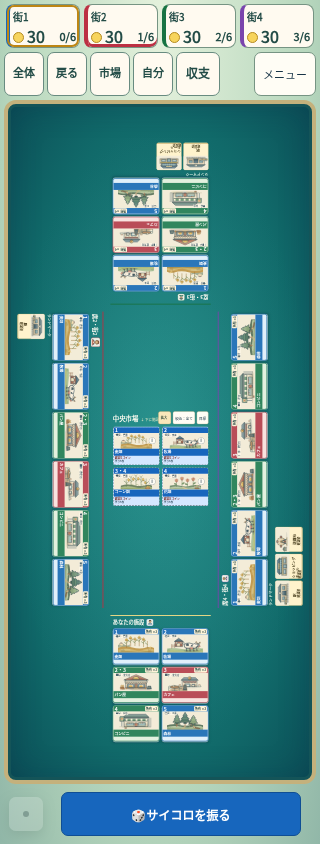
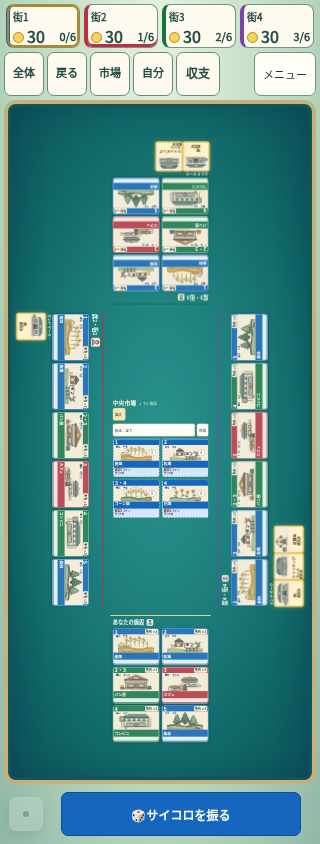
fix: 狭い中央市場の見出しと操作の重なりを解消

diff --git a/style.css b/style.css
@@ -14060,6 +14060,54 @@ html[data-design="cardboard"] #cardboardBoard.cardboard-card-table #cardboardSea
     -webkit-mask-image: none;
 }
 
+/* A two-card-wide market gives its title/actions and filters separate rows. */
+html[data-design="cardboard"] #cardboardBoard.cardboard-card-table #cardboardSeats #cardboardCenter[data-market-columns="2"] #cardboardMarket .compact-market {
+    grid-template-columns: minmax(0, 1fr) auto;
+    grid-template-rows: auto auto minmax(0, 1fr) auto;
+}
+html[data-design="cardboard"] #cardboardBoard.cardboard-card-table #cardboardSeats #cardboardCenter[data-market-columns="2"] #cardboardMarket .compact-market-header {
+    grid-column: 1 / -1;
+    grid-row: 1;
+    min-width: 0;
+    min-height: 44px;
+    height: auto;
+    flex-wrap: wrap;
+    gap: 4px 8px;
+}
+html[data-design="cardboard"] #cardboardBoard.cardboard-card-table #cardboardSeats #cardboardCenter[data-market-columns="2"] #cardboardMarket .compact-market-header h2 {
+    flex: 1 1 100%;
+    margin: 0;
+    min-width: 0;
+    white-space: normal;
+    font-size: 20px;
+    line-height: 1.3;
+}
+html[data-design="cardboard"] #cardboardBoard.cardboard-card-table #cardboardSeats #cardboardCenter[data-market-columns="2"] #cardboardMarket .compact-market-header button {
+    flex: 0 0 auto;
+    max-width: 100%;
+}
+html[data-design="cardboard"] #cardboardBoard.cardboard-card-table #cardboardSeats #cardboardCenter[data-market-columns="2"] #cardboardMarket .compact-market-filter-disclosure {
+    grid-column: 1;
+    grid-row: 2;
+}
+html[data-design="cardboard"] #cardboardBoard.cardboard-card-table #cardboardSeats #cardboardCenter[data-market-columns="2"] #cardboardMarket .compact-market-goal-disclosure {
+    grid-column: 2;
+    grid-row: 2;
+}
+html[data-design="cardboard"] #cardboardBoard.cardboard-card-table #cardboardSeats #cardboardCenter[data-market-columns="2"] #cardboardMarket .compact-market-facilities {
+    grid-column: 1 / -1;
+    grid-row: 3;
+}
+html[data-design="cardboard"] #cardboardBoard.cardboard-card-table #cardboardSeats #cardboardCenter[data-market-columns="2"] #cardboardMarket .market-rule-status {
+    grid-column: 1 / -1;
+    grid-row: 4;
+    position: static;
+    width: auto;
+    max-width: 100%;
+    margin: 0;
+    overflow-wrap: anywhere;
+}
+
 html[data-design="cardboard"] #cardboardBoard.cardboard-card-table #cardboardSeats #cardboardMarket .compact-market-item {
     flex: none;
     width: 160px;

diff --git a/tests/browser/cardboard-overview.spec.js b/tests/browser/cardboard-overview.spec.js
@@ -72,6 +72,26 @@ async function expectWholeTable(page, count) {
                 if (width > tolerance && height > tolerance) failures.push(`${groups[first].name} overlaps ${groups[second].name}`);
             }
         }
+        const market = viewport.querySelector('#cardboardMarket');
+        const controls = [...market.querySelectorAll('.compact-market-header h2, .compact-market-header button, .compact-market-filter-disclosure > summary, .compact-market-goal-disclosure > summary')]
+            .map(node => ({ node, bounds: node.getBoundingClientRect() }));
+        for (let first = 0; first < controls.length; first++) {
+            for (let second = first + 1; second < controls.length; second++) {
+                const a = controls[first].bounds;
+                const b = controls[second].bounds;
+                if (Math.min(a.right, b.right) - Math.max(a.left, b.left) > 1 &&
+                    Math.min(a.bottom, b.bottom) - Math.max(a.top, b.top) > 1) failures.push('market heading/control overlap');
+            }
+        }
+        const title = market.querySelector('.compact-market-header h2');
+        const titleRange = document.createRange();
+        titleRange.selectNodeContents(title);
+        const titleText = titleRange.getBoundingClientRect();
+        for (const control of controls.filter(control => control.node !== title)) {
+            const b = control.bounds;
+            if (Math.min(titleText.right, b.right) - Math.max(titleText.left, b.left) > 1 &&
+                Math.min(titleText.bottom, b.bottom) - Math.max(titleText.top, b.top) > 1) failures.push('market title text overlaps control');
+        }
         return failures.slice(0, 8);
     })).toEqual([]);
 }

diff --git a/js/cardTableLayout.js b/js/cardTableLayout.js
@@ -57,6 +57,7 @@ const CardTableLayout = (() => {
             // A tall screen needs a narrower centre, otherwise its width
             // determines the fit scale and leaves most of the height unused.
             const columns = wide ? 6 : 2;
+            if (market.dataset.marketColumns !== String(columns)) market.dataset.marketColumns = String(columns);
             setStyle(market, '--table-market-columns', String(columns));
             setStyle(market, '--table-market-rows', oppositeOnly && shallow ? '1' : '2');
             setStyle(market, 'width', `${columns * 160 + (columns - 1) * 8 + 16}px`);

diff --git a/docs/ORIENTED-CARD-TABLE-PROGRESS.md b/docs/ORIENTED-CARD-TABLE-PROGRESS.md
@@ -95,3 +95,11 @@ fe6fd66bのRelease CI39017454898全7job成功。4人CPUの自然進行mid19/late
 - 18種類の2人横持ちは従来の最小幅検査24pxを44px以上へ強化。実CPU起動の通知がdockへ収まり、所有者HUDを覆わず、全カードも画面に収まる検査1/1成功（19.7秒）。カード幅の検査値を実測の旧値と混同しない。
 - 一度CPUを強制割当てしてschedulerをcancelしたfixtureはwatchdogが正しく自動復旧し、CPU文言のassertに失敗した。製品障害ではなくfixtureが正規CPUフローを壊したためと判断。新しいCPU2人戦を通常startGameNowで開始するfixtureへ修正、watchdogを無効化せず成功した。
 - 2人配置+撮影時HUD検査付き6操作部分UI smokeは2/2成功（51.3秒）。編集JS構文とdiff checkも成功。新しい2画像はcard-table-2-grown/cpu-dock、固定レイアウト検査/CPU初期画面として保存。完走証拠とは区別する。
+
+## 同版完走後の最終市場ヘッダー修正
+
+254801cdのRelease39020410394全7ジョブ、視覚レビュー39020410370、UI完走39020477392縦横が成功。縦390は168行動/316クリック/65turn、横844は203行動/355クリック/80turn、両completed=true/pageErrors空、通常設定UIからCPU100msを選択した非固定出目の対局。
+
+ただし最終画像の独立目視で、2列幅の中央市場タイトル/拡大/Undo/絞込が同一行へ詰まり重なる具体的欠陥を発見した。成功したテストを完成の根拠にせず、狭い市場のみ見出しと操作、絞込/目標、施設、供給説明を別行へ分離。見出しにはscroll hintを含む幅を確保する。6列のPC/横持ち市場は変えない。表示列数をlayoutからdata属性で明示し、固定pxの画面幅判定と混同しない。filter/goalを開いた際には自動行高で施設へ重ならない。
+
+既存全体盤面の検査へ市場見出し/操作の非重複（実座標/タイトル文字Range）を追加。狭い基準画像の変更は実画像で再レビューし、期待値緩和で隠さない。最終結果、同版の縦横完走、残課題はPR16本文のCI/Artifactsリンクを正とする。

diff --git a/docs/ORIENTED-CARD-TABLE-AUDIT.md b/docs/ORIENTED-CARD-TABLE-AUDIT.md
@@ -14,6 +14,6 @@
 | 余白 | 浅い横持ち/PC/縦持ちで左右席の列数と市場幅を変える | 5〜10人や全員が多数種類所有する状態は倍率が下がる。隠す/消す解決はしない |
 | 発動・収益 | 実カード上に所有者名/金額/連鎖順。出目確定と送金は既存演出を再利用し、幾何更新時の欠落/誤位置を修正 | 3D物理ダイス、音とカメラの高度な同期、公式の豊富なキャラクター表情との違いは残る |
 | 勝利 | 枚数/種類の達成表示、完成ランドマークを先に、全施設は詳細閲覧可能。勝利時の旧手番告知を即終了。小幅も2列、PCは一覧と再戦を近く保持 | 多種類の全カードはスクロールが必要。物理端末や初見ユーザーによる操作評価は未実施 |
-| 互換性 | 表示専用layout/camera。GameManager/server/カード定義/save形式は変更しない | 最終版の混在オンライン/再接続/Undo/完走/CI確認結果は進捗へ追記予定 |
+| 互換性 | 表示専用layout/camera。GameManager/server/カード定義/save形式は変更しない | 最終結果はPR16の同版Checks/実対局Artifactsへ集約。物理端末は未検証 |
 
 公式と同等以上の主観的品質を、テスト成功や回数だけで証明することはできない。現時点で同等以上と断言しない。特に多人数終盤の全体倍率、演出の立体感、初見での拡大操作の理解、物理スマホの操作感は評価の限界として残す。
